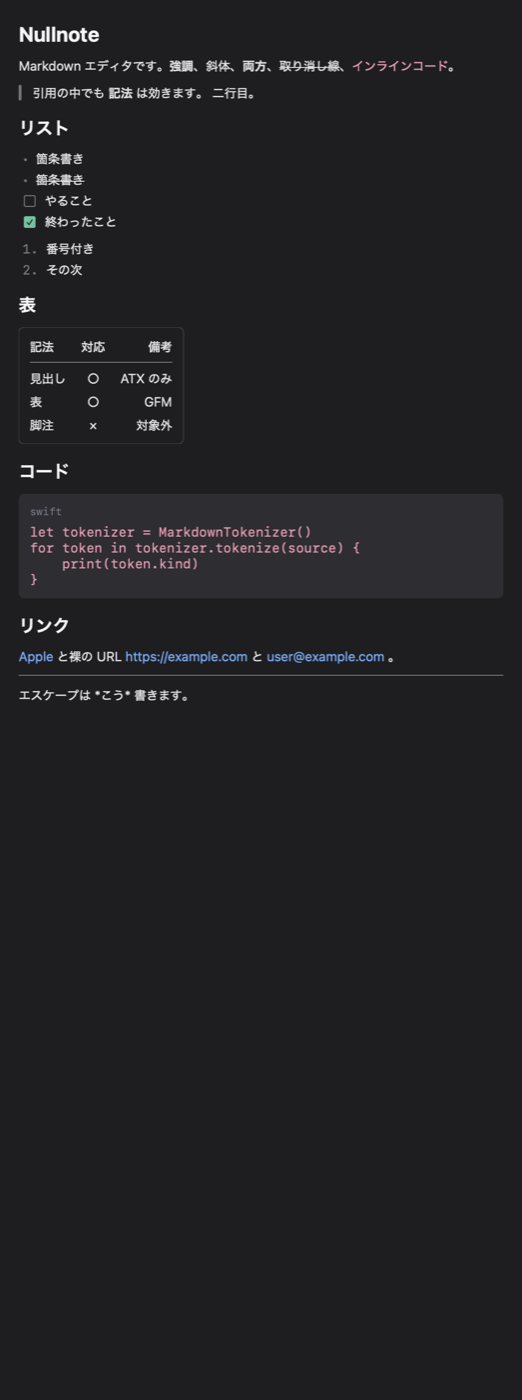
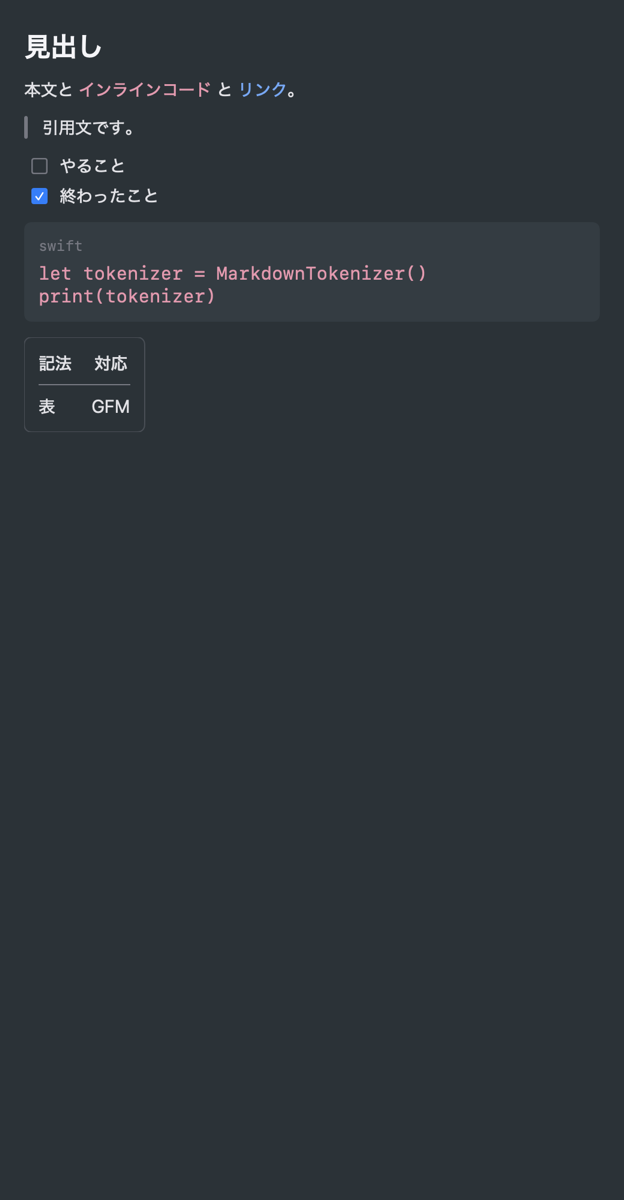
デザイン面の細かい調整

diff --git a/docs/03-release-plan.md b/docs/03-release-plan.md
@@ -1,0 +1,191 @@
+# リリース計画
+
+**第1段階**でローカル常用できる状態にし、**第2段階**で App Store へ出す。
+先に常用して不便を洗い出す方が、審査のやり直しが減る。
+
+## 現状（起点）
+
+| 項目 | 値 | 備考 |
+|---|---|---|
+| Bundle Identifier | `com.roughlang.Nullnote` | 確定 |
+| 最低 OS | macOS 14.0 | |
+| `MARKETING_VERSION` | `0.1` | 公開前に決め直す |
+| `CURRENT_PROJECT_VERSION` | `1` | ビルド番号。申請ごとに増やす |
+| 署名 | `CODE_SIGN_IDENTITY = "-"`（アドホック） | この Mac でのみ動く |
+| `DEVELOPMENT_TEAM` | 未設定 | Developer Program 登録後に設定 |
+| ハードンドランタイム | 有効 | そのままでよい |
+| サンドボックス | 有効 | そのままでよい |
+| アプリアイコン | **無し** | 要作成 |
+
+アプリの実体は DerivedData の中にあり、Clean Build Folder で消える。
+
+---
+
+## 第1段階: ローカルで常用できるようにする
+
+### T1-1. アプリアイコンを用意する 〔要: 元絵〕
+
+- 1024×1024 の元絵を用意する（PNG、余白込みの macOS 標準の角丸で描く）
+- 各サイズを生成してアセットカタログに入れる
+- 元絵さえあれば、サイズ生成と組み込みは自動化できる
+
+**いま無いと何が起きるか**: Dock と Finder で汎用の書類アイコンになる。
+App Store 申請では**必須**なので、どのみち第2段階までに要る。
+
+### T1-2. バージョン番号を決める
+
+`0.1` のまま常用しても支障はないが、App Store に出すなら `1.0` から始めるのが素直。
+第2段階の直前で決めればよい。
+
+### T1-3. Release ビルドを `/Applications` に置く
+
+```sh
+cd Apps/Nullnote-macOS
+xcodebuild -scheme Nullnote -configuration Release build
+cp -R "$(xcodebuild -scheme Nullnote -configuration Release -showBuildSettings 2>/dev/null \
+        | awk -F' = ' '/ BUILT_PRODUCTS_DIR/{print $2}' | head -1)/Nullnote.app" /Applications/
+```
+
+アドホック署名のままでも、この Mac では問題なく起動する。
+以降は `open -a Nullnote ファイル.md` で開ける。Launchpad にも出る。
+
+**注意**: 更新するたびにコピーし直す必要がある。手順をスクリプトにしておくとよい。
+
+### T1-4. 常用して不便を洗い出す 〔あなた〕
+
+ここが第1段階の本体。使ってみて出てきたものを次の作業の入口にする。
+既に候補として挙がっているもの:
+
+- 記法の入力補助（⌘B で `**` を挿入、リストの継続入力）
+- コードブロックのシンタックスハイライト（言語名は既にトークンとして取れている）
+- 記法文字（`marker`）の濃さ調整（ライトで 2.13:1 とやや薄い）
+
+---
+
+## 第2段階: App Store 公開
+
+### 先に着手すべきもの（待ち時間がある）
+
+#### T2-1. Apple Developer Program に登録する 〔あなたのみ〕
+
+- 年額 99 USD
+- **審査に数日〜1週間かかる**ので、第1段階と並行して先に出しておく
+- 登録後に Team ID が分かる → `DEVELOPMENT_TEAM` に設定する
+
+#### T2-2. 名称・商標・ドメインを確認する 〔あなたのみ〕
+
+| 確認先 | 目的 |
+|---|---|
+| App Store で「Nullnote」を検索 | 同名アプリの有無 |
+| 特許庁 J-PlatPat | 日本の商標 |
+| USPTO | 米国の商標 |
+| ドメインの空き | サポート URL とプライバシーポリシー URL に必要 |
+
+**ドメインは実質必須**。App Store Connect でサポート URL の入力を求められる。
+
+### 署名とビルドの切り替え
+
+#### T2-3. Bundle ID を Developer Portal に登録する 〔あなたのみ〕
+
+`com.roughlang.Nullnote` を Identifiers に登録。App Sandbox を capability として有効にする。
+
+#### T2-4. 署名設定を切り替える 〔私〕
+
+```
+CODE_SIGN_IDENTITY = "Apple Distribution"   ← "-" から変更
+DEVELOPMENT_TEAM = <Team ID>                ← 新規設定
+CODE_SIGN_STYLE = Automatic
+```
+
+**確認すること**: 配布ビルドに `com.apple.security.get-task-allow` が
+残っていないこと（デバッガ接続用の権限。残っていると審査で弾かれる）。
+
+```sh
+codesign -d --entitlements :- /path/to/Nullnote.app
+```
+
+### 素材の準備
+
+#### T2-5. アプリアイコンを仕上げる 〔元絵をいただければ私〕
+
+T1-1 と同じもの。1024×1024 が申請用のマスターになる。
+
+#### T2-6. スクリーンショットを用意する 〔私〕
+
+macOS 版の規定サイズ（いずれか）:
+
+- 1280×800
+- 1440×900
+- 2560×1600
+- 2880×1800
+
+最低1枚、最大10枚。ライト／ダーク、エディタ単独／プレビュー並列を見せたい。
+
+**この環境では画面収録の権限が無い**ため、`screencapture` は使えない。
+ビューをオフスクリーンで描いて PNG に焼く方法で作る
+（`docs/02-decision-log.md` の「検証方法についての記録」を参照）。
+
+#### T2-7. 掲載文を書く 〔一緒に〕
+
+- アプリ名、サブタイトル（30文字）
+- 説明文（4000文字まで）
+- キーワード（100文字、カンマ区切り）
+- カテゴリ: 仕事効率化（`public.app-category.productivity` を既に設定済み）
+- サポート URL、プライバシーポリシー URL
+
+### 申告
+
+#### T2-8. App Privacy を申告する 〔私が整理、入力はあなた〕
+
+**このアプリはデータを一切収集しない。**
+
+- ネットワーク通信なし
+- 解析・トラッキングなし
+- 保存するのは書類ファイルと設定2つ（`editorAppearance` / `editorFontSize`）のみで、
+  すべてローカル
+
+→ App Store Connect では「データを収集しない」を選ぶだけで済む。
+
+#### T2-9. Export Compliance に答える 〔あなた〕
+
+暗号化は使っていない。`ITSAppUsesNonExemptEncryption = NO` を Info.plist に
+入れておくと、申請のたびに聞かれずに済む。
+
+### 提出
+
+#### T2-10. アーカイブして検証・アップロードする 〔私がコマンド化〕
+
+```sh
+xcodebuild -scheme Nullnote -configuration Release \
+           -archivePath build/Nullnote.xcarchive archive
+xcodebuild -exportArchive -archivePath build/Nullnote.xcarchive \
+           -exportOptionsPlist ExportOptions.plist -exportPath build/export
+xcrun altool --validate-app -f build/export/Nullnote.pkg -t macos ...
+```
+
+`ExportOptions.plist` は Team ID が決まってから作る。
+
+#### T2-11. 審査に出す 〔あなた〕
+
+初回は 1〜3 日程度。リジェクトされたら理由を見て直す。
+
+---
+
+## 分担の整理
+
+| 私ができること | あなたにしかできないこと |
+|---|---|
+| アイコンの各サイズ生成と組み込み | Developer Program 登録 |
+| 署名設定の切り替え | 証明書・プロビジョニングの作成 |
+| スクリーンショットの生成 | App Store Connect でのアプリ登録・申請 |
+| App Privacy / Export Compliance の内容整理 | 名称・商標・ドメインの確認 |
+| アーカイブとバリデーションのコマンド化 | 掲載文の最終決定 |
+| 掲載文の下書き | 審査への応答 |
+
+## 次回の入口
+
+**T1-1（アイコン）と T1-3（`/Applications` へ配置）から始める。**
+アイコンの元絵があれば持参する。無ければ暫定のものを作ることもできる。
+
+並行して **T2-1（Developer Program 登録）** と **T2-2（名称・ドメイン確認）** を
+先に動かしておくと、待ち時間が重ならない。

diff --git a/docs/01-native-app-anatomy.md b/docs/01-native-app-anatomy.md
@@ -212,6 +212,57 @@ Nullnote                 ← 4.4 MB。これだけ
 
 ---
 
+## 6.5. ビルドしたアプリはどこにできるか
+
+同じアプリの `.app` が Mac の中に複数できる。**これは正常で、問題ではない。**
+それぞれ役割が違うだけ。
+
+| パス | 作られる操作 | 用途 |
+|---|---|---|
+| `~/Library/Developer/Xcode/DerivedData/<プロジェクト>-<ハッシュ>/Build/Products/Debug/<アプリ>.app` | Xcode の ⌘R、`xcodebuild -configuration Debug` | 開発中の動作確認 |
+| `…/Build/Products/Release/<アプリ>.app` | `xcodebuild -configuration Release` | 配布用の設定でのビルド |
+| `/Applications/<アプリ>.app` | 手でコピー、`install.sh` | 日常的に使う |
+| `~/Library/Developer/Xcode/Archives/<日付>/<名前>.xcarchive/Products/Applications/<アプリ>.app` | Product → Archive | App Store 申請用 |
+
+**同時にはできない。** それぞれ別の操作で作られ、同じ場所は上書きされる。
+Debug ビルドを100回しても `Debug/<アプリ>.app` は1個のまま。
+
+`/Applications` のものだけは Xcode が作らない。誰かがコピーして初めて存在する。
+
+### Bundle ID が同じことの意味
+
+これらはすべて同じ `CFBundleIdentifier` を持つ。macOS はこれでアプリを識別するので、
+**設定とサンドボックスのコンテナを共有する**。
+
+```
+~/Library/Containers/<Bundle ID>/
+```
+
+開発ビルドで設定を変えると、`/Applications` のアプリにも反映される。
+**開発中はむしろ好都合**（実際の設定のまま確認できる）。
+分けたければ Debug の `PRODUCT_BUNDLE_IDENTIFIER` に `.debug` を付ける。
+急いでやる必要はない。
+
+### 唯一気をつけること
+
+**ビルドし直したら、アプリを再起動する。**
+
+複数の場所にビルドがあること自体は無害だが、
+「直したはずなのに変わらない」の原因はほぼこれ。
+起動しっぱなしのプロセスは、いつビルドされたコードを動かしているか分からない。
+
+```sh
+# いま動いているのは、いつビルドされたものか
+ps -o lstart= -p $(pgrep -f "<アプリ>.app/Contents/MacOS/<アプリ>" | head -1)
+stat -f "%Sm" <アプリのパス>/Contents/MacOS/<アプリ>
+```
+
+プロセスの開始時刻がビルド時刻より**前**なら、古いコードを見ている。
+
+> **調べるときの落とし穴**: 起動テストを連続で回すと、
+> 前のプロセスが終了しきる前に `pgrep` してしまい、古い方を「いま動いている」と誤読する。
+> 必ず `pgrep` で 0 件になるのを確認してから次を測ること。
+
 ## 7. 署名とサンドボックス
 
 ### 署名

diff --git a/docs/README.md b/docs/README.md
@@ -8,6 +8,7 @@ Nullnote の開発ドキュメント。
 |---|---|---|
 | [01-native-app-anatomy.md](01-native-app-anatomy.md) | macOS ネイティブアプリの構造。ソースが `.app` になるまで、`.app` の中身、リンクの仕組み、DerivedData、署名とサンドボックス | 仕組みを知りたいとき。ビルド周りで詰まったとき |
 | [02-decision-log.md](02-decision-log.md) | なぜこの作りになったか。捨てた案とその理由、実測値、見つけた不具合 | 「なぜこうしなかったのか」を思い出したいとき。設計を変えようとするとき |
+| [03-release-plan.md](03-release-plan.md) | ローカル常用 → App Store 公開までの段取りとタスク。分担つき | 次に何をやるか思い出したいとき |
 
 ## この外にあるもの
 

diff --git a/README.md b/README.md
@@ -127,6 +127,11 @@ cd Apps/Nullnote-macOS && xcodebuild -scheme Nullnote build
 
 ## 次の一歩
 
+**リリースまでの段取りは [docs/03-release-plan.md](docs/03-release-plan.md) にまとめてある。**
+第1段階＝ローカル常用、第2段階＝App Store 公開。
+
+機能面の候補:
+
 1. コードブロックのシンタックスハイライト（言語名は既に取れている）
 2. Markdown 記法の入力補助（⌘B で `**` を挿入する等）
 3. 差分ハイライト（長文で引っかかるようになったら。`MarkdownLineTokens.stateAfter` の収束で打ち切る）
